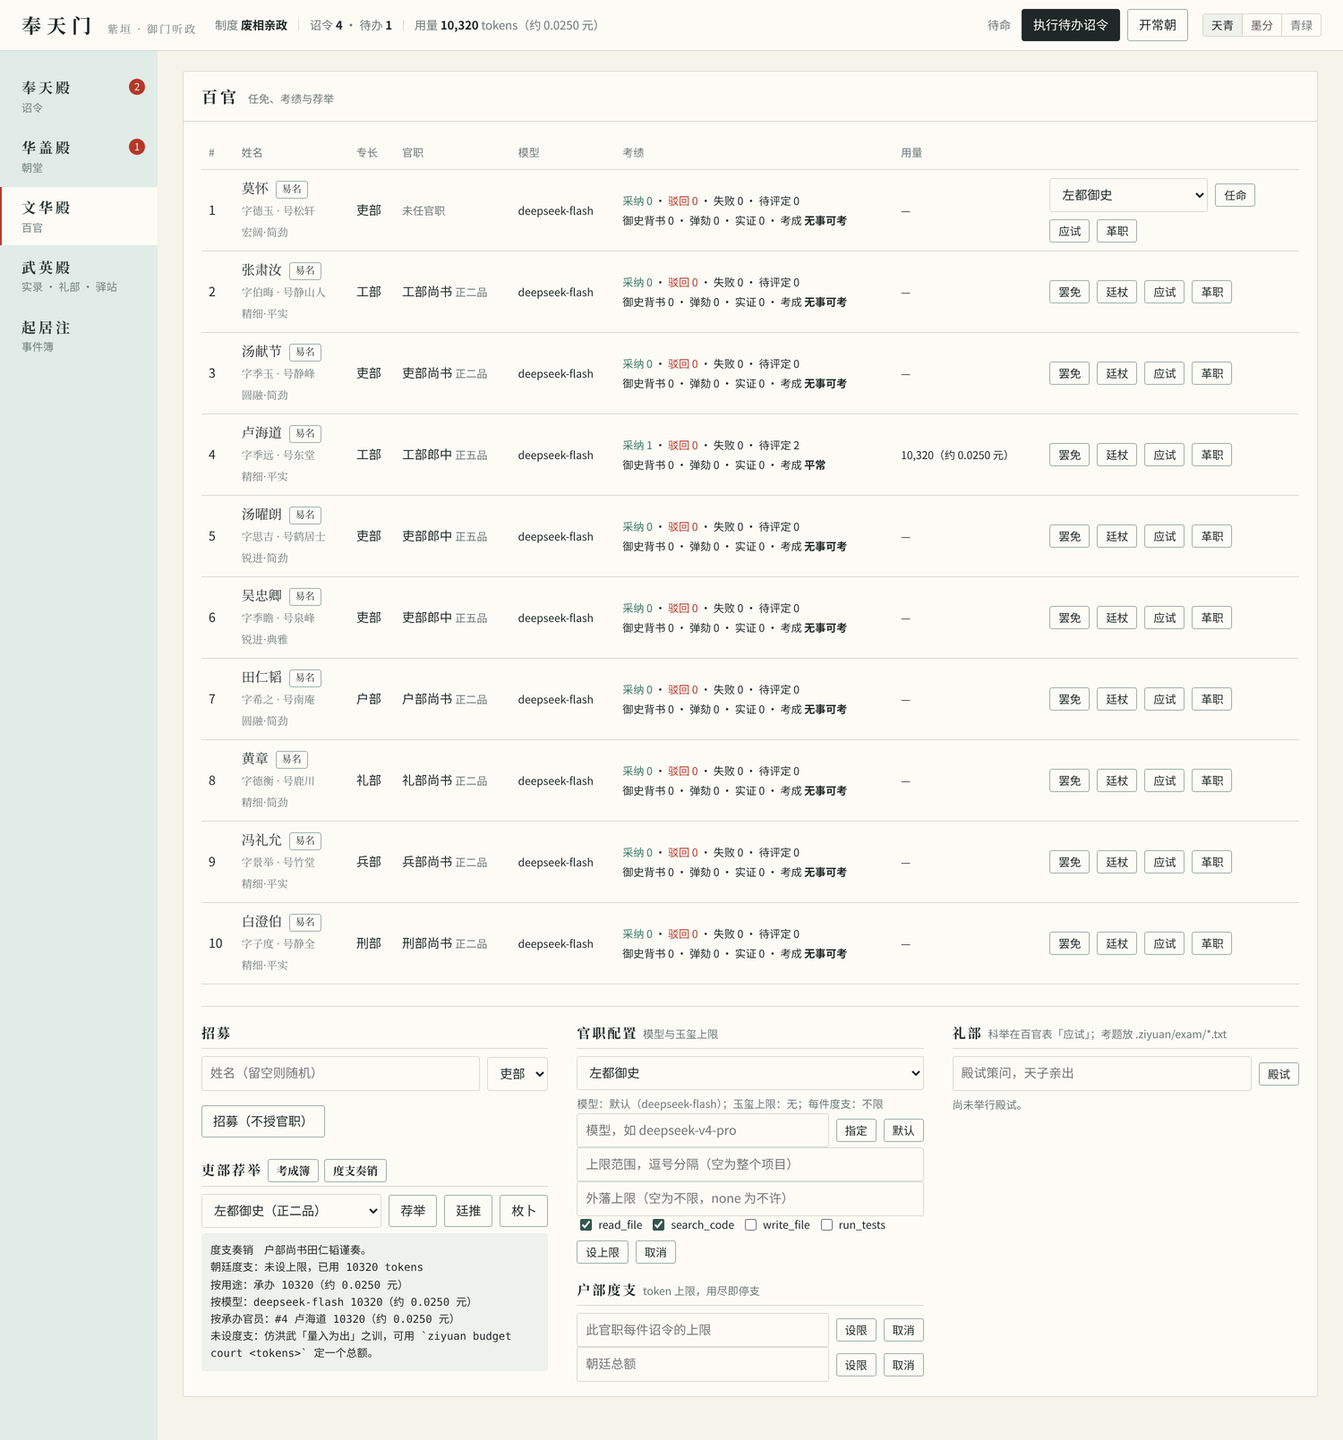
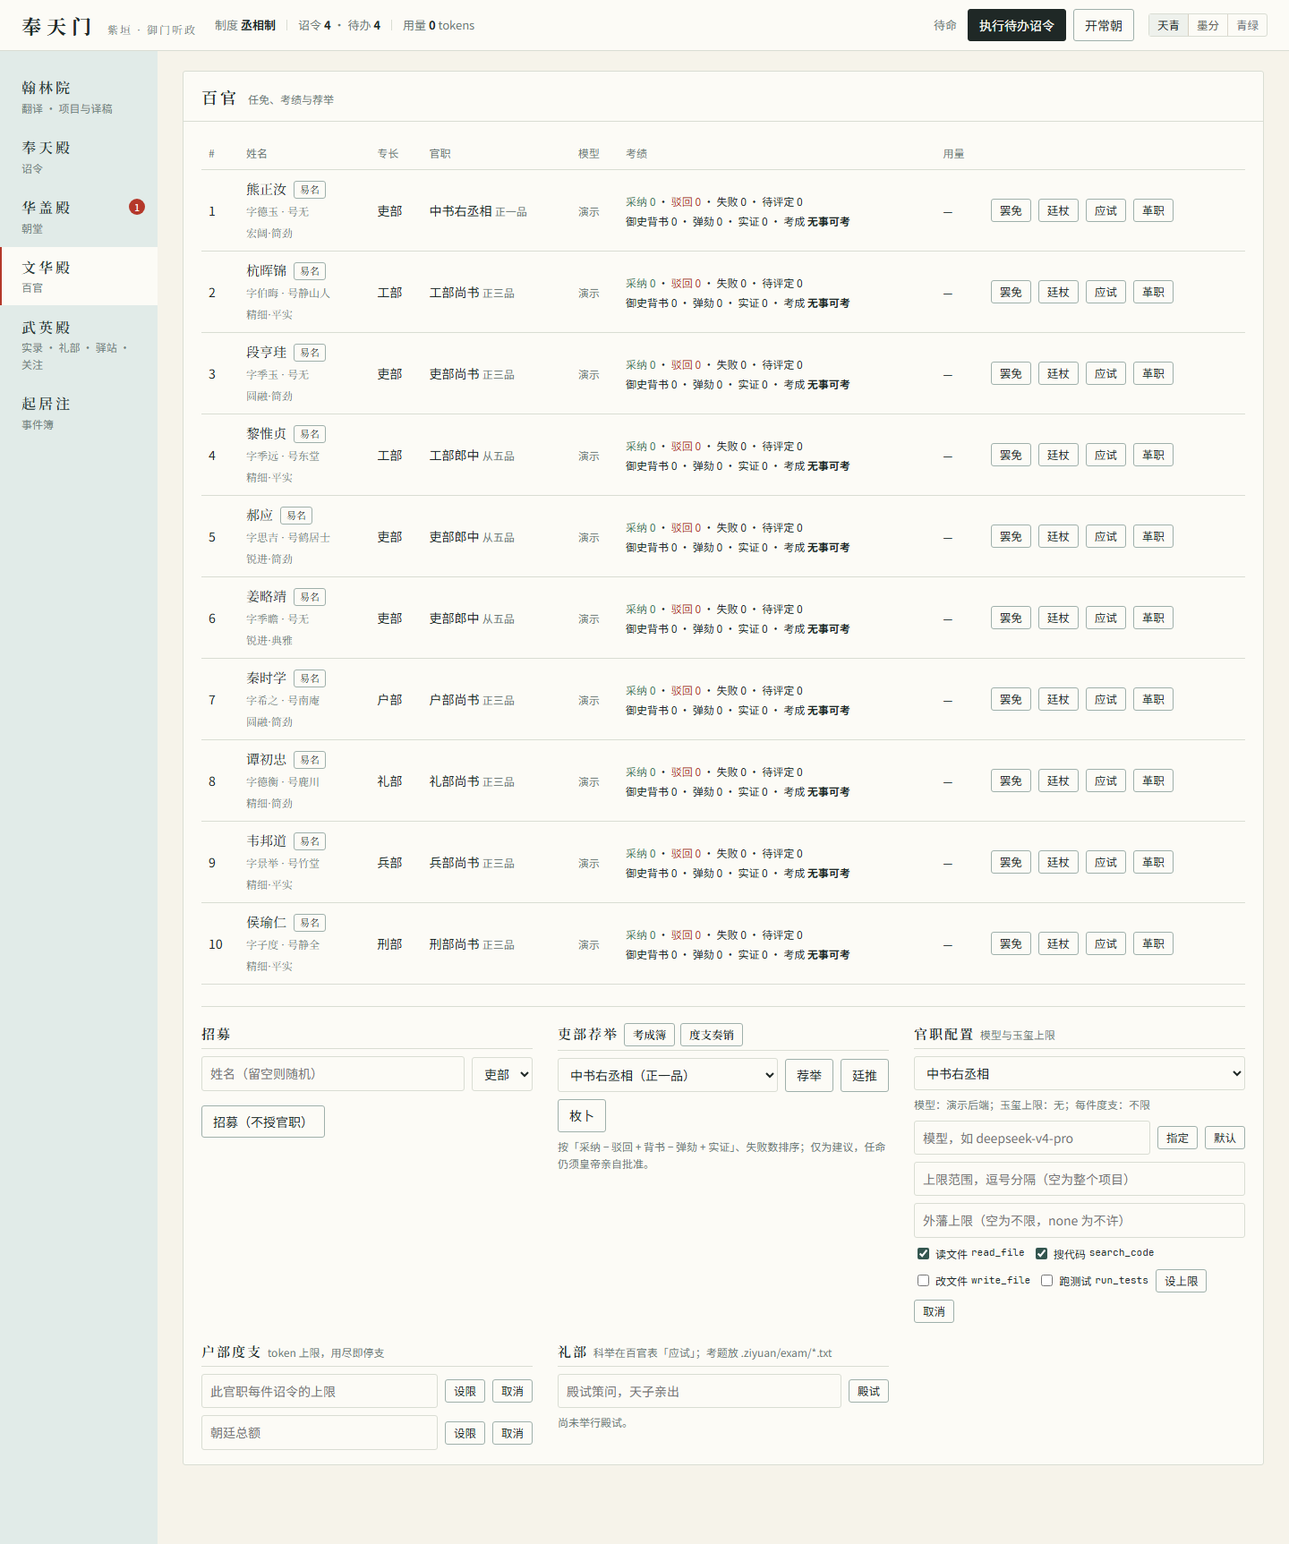
release: 1.16.1 修复 Web/TUI 画风与排版并刷新文档截图

diff --git a/crates/ziyuan-web/src/index.html b/crates/ziyuan-web/src/index.html
@@ -307,6 +307,9 @@
   #text-new-project-dialog { box-sizing: border-box; width: min(560px, calc(100vw - 32px)); max-height: 86vh; overflow: auto; background: var(--sheet); color: var(--ink); border: 1px solid var(--line-strong); border-radius: var(--radius); padding: 24px; }
   #text-new-project-dialog::backdrop { background: #1f282655; }
   #text-new-project-dialog .row { flex-wrap: wrap; }
+  #material-wizard { box-sizing: border-box; width: min(460px, calc(100vw - 32px)); max-height: 86vh; overflow: auto; background: var(--sheet); color: var(--ink); border: 1px solid var(--line-strong); border-radius: var(--radius); padding: 24px; }
+  #material-wizard::backdrop { background: #1f282655; }
+  #material-wizard h3 { margin: 0 0 12px; }
   #schedule-form { display: flex; flex-direction: column; max-height: calc(86vh - 50px); }
   #schedule-title { flex-shrink: 0; margin: 0 0 12px; }
   .schedule-content { min-height: 0; overflow: auto; padding: 4px; margin: 0 -4px; }
@@ -344,7 +347,7 @@
   /* ---- 表单与按钮：墨色细框，只有「采纳」钤朱 ---- */
   label { display: block; font-size: 12px; color: var(--muted); margin: 12px 0 4px; }
   label:first-child { margin-top: 0; }
-  input[type=text], input[type=number], input[type=password], input[type=datetime-local], input[type=file], select, textarea {
+  input:not([type]), input[type=text], input[type=number], input[type=password], input[type=datetime-local], input[type=file], select, textarea {
     width: 100%; font: inherit; color: var(--ink); background: var(--sheet);
     border: 1px solid var(--line); border-radius: var(--radius); padding: 7px 9px;
   }
@@ -434,6 +437,7 @@
   .side { border-left: 1px solid var(--line); padding-left: 20px; }
   .side + .side { margin-top: 20px; }
   #hall-wenhua .side { border-left: 0; padding-left: 0; margin: 0; }
+  .side .row + .row, #config-current + .row { margin-top: 8px; }
   .officials-layout h3 { margin: 18px 0 8px; padding-bottom: 4px; border-bottom: 1px solid var(--line); }
   .officials-layout h3:first-child { margin-top: 0; }
   .officials-layout h3 small { font-family: var(--sans); letter-spacing: 0; font-weight: normal; color: var(--muted); }
@@ -446,6 +450,7 @@
   /* ---- 武英殿与起居注 ---- */
   .records-list { margin: 12px 0 0; padding-left: 22px; max-height: 60vh; overflow: auto; font-size: 13.5px; }
   .records-list li { margin-bottom: 8px; }
+  .records-list li.hint { list-style: none; margin-left: -22px; }
   #records-q { flex: 1; }
   .history-filter { display: flex; flex-wrap: wrap; gap: 6px; align-items: center; padding: 14px 20px 0; }
   .history-filter input[type=text] { width: 9em; padding: 4px 8px; font-size: 13px; }
@@ -468,7 +473,7 @@
   #subscription-input { flex: 1 1 220px; min-width: 0; }
   #subscription-settings-form { display: flex; flex-wrap: wrap; align-items: end; gap: 12px; margin-top: 18px; }
   #subscription-settings-form label { margin: 0; }
-  #subscription-settings-form label.check { align-self: center; }
+  #subscription-settings-form label.check { display: inline-flex; align-items: center; gap: 5px; align-self: end; min-height: 36px; color: var(--ink); font-size: 13px; }
   #subscription-interval { max-width: 120px; display: block; }
   #subscription-status, #subscription-result { overflow-wrap: anywhere; }
   #subscription-panel { margin-top: 20px; }
@@ -578,6 +583,22 @@
 .assoc-tags { display: flex; flex-wrap: wrap; gap: 4px; }
 .assoc-tag { display: inline-flex; align-items: center; gap: 4px; border: 1px solid var(--line); border-radius: 999px; padding: 1px 6px; font-size: 12px; }
 .assoc-tag-x { border: 0; background: none; padding: 0; cursor: pointer; color: var(--muted); font: inherit; }
+  .materials-editor { margin-top: 10px; }
+  .materials-editor [data-role="tabs"] { margin-top: 10px; }
+  .materials-editor [data-role="tab"][aria-selected="true"] { background: var(--ink); color: var(--sheet); border-color: var(--ink); }
+  .materials-editor [data-role="add"] { margin-top: 10px; }
+  .materials-list { display: flex; flex-wrap: wrap; gap: 6px; margin-top: 10px; }
+  .materials-list [data-role="item"] { text-align: left; max-width: 100%; white-space: normal; overflow-wrap: anywhere; }
+  .materials-list [data-role="item"][aria-selected="true"] { background: var(--tint); color: var(--tint-ink); border-color: var(--line-strong); font-weight: 600; }
+  .materials-form { margin-top: 12px; }
+  .materials-form [data-role="entry-form"] { padding: 12px 14px; background: var(--well); border: 1px solid var(--line); border-radius: var(--radius); }
+  .materials-form fieldset { min-width: 0; border: 1px solid var(--line); border-radius: var(--radius); padding: 10px 12px; margin: 12px 0 0; background: var(--sheet); }
+  .materials-form legend { font-family: var(--serif); font-size: 13px; color: var(--tint-ink); padding: 0 6px; }
+  .materials-form .material-item { padding: 8px 0; border-bottom: 1px solid var(--line); }
+  .materials-form .material-item:last-of-type { border-bottom: 0; }
+  .materials-form .material-item > button, .materials-form fieldset > button[data-add] { margin-top: 8px; }
+  .materials-form label:has(> input[type="checkbox"]) { display: inline-flex; align-items: center; gap: 6px; color: var(--ink); font-size: 13px; }
+  .materials-form label:has(> input[type="checkbox"]) input[type="checkbox"] { width: auto; margin: 0; }
 #text-materials-editor.simple-mode fieldset[data-legend="出处"], #text-materials-editor.simple-mode fieldset[data-legend="适用范围"], #text-materials-editor.simple-mode fieldset[data-legend="说话人"], #text-materials-editor.simple-mode fieldset[data-legend="称呼规则"], #text-materials-editor.simple-mode fieldset[data-legend="关联术语"], #text-materials-editor.simple-mode fieldset[data-legend="语气"], #text-materials-editor.simple-mode fieldset[data-legend="生效位置"] { display: none; }
 .text-materials pre {
     white-space: pre-wrap; overflow-wrap: anywhere; margin: 6px 0 0; padding: 8px 10px; max-height: 220px;
@@ -689,14 +710,15 @@
     .header-stats { gap: 2px 14px; }
     .header-stats .stat + .stat::before { display: none; }
     .halls { flex-direction: row; overflow-x: auto; padding: 0; }
-    .halls a { border-left: 0; border-bottom: 2px solid transparent; padding: 8px 9px; flex: 1 0 auto; text-align: center; }
+    .halls a { display: inline-flex; align-items: center; justify-content: center; gap: 5px; border-left: 0; border-bottom: 2px solid transparent; padding: 8px 10px; flex: 1 0 auto; text-align: center; }
     .halls a b { font-size: 15px; letter-spacing: 1px; }
-    .halls a i { top: 2px; right: 0; }
+    .halls a i { position: static; flex: 0 0 auto; }
     .halls a.current { border-bottom-color: var(--seal); }
     .halls a span { display: none; }
     main { padding: 16px; }
     header { padding: 10px 16px; }
     .header-actions { margin-left: 0; }
+    .themes { margin-left: 0; }
   }
 
   #text-card .continuity-tools { min-width:0; margin:12px 0; padding:10px 14px; background:var(--well); border:1px solid var(--line); border-radius:var(--radius); box-sizing:border-box; }
@@ -1014,10 +1036,10 @@
                 <form method="dialog" class="write">
                   <h3>向导式新建</h3>
                   <label>类型<select id="wizard-kind"><option value="terms">术语</option><option value="persons">人物</option></select></label>
-                  <label>原文／姓名<input id="wizard-name" data-keep placeholder="例如：勇者"></label>
-                  <label>允许译法／别名<input id="wizard-values" data-keep placeholder="多个用分号分隔"></label>
-                  <label>备注<input id="wizard-note" data-keep placeholder="可留空"></label>
-                  <div class="actions"><button class="small" id="wizard-add" type="button">添加</button><button class="small" type="submit">取消</button></div>
+                  <label>原文／姓名<input type="text" id="wizard-name" data-keep placeholder="例如：勇者"></label>
+                  <label>允许译法／别名<input type="text" id="wizard-values" data-keep placeholder="多个用分号分隔"></label>
+                  <label>备注<input type="text" id="wizard-note" data-keep placeholder="可留空"></label>
+                  <div class="actions"><button class="small primary" id="wizard-add" type="button">添加</button><button class="small" type="submit">取消</button></div>
                   <p class="hint" id="wizard-status" role="status" aria-live="polite"></p>
                 </form>
               </dialog>
@@ -1965,7 +1987,7 @@ $("materials-tm-list")?.addEventListener("click", async () => {
   const host=$("materials-tm-result");host.replaceChildren();
   const check=()=>{if(project!==textProjectId)throw new Error("项目已变，请重新读取翻译记忆");};
   const task=async(fn)=>{try{check();await fn();$("materials-status").textContent="翻译记忆已更新；未修改译稿。";if(project===textProjectId)$("materials-tm-list").click();}catch(e){$("materials-status").textContent=e.message;}};
-  const input=(label,value="")=>{const e=document.createElement("input");e.placeholder=label;e.setAttribute("aria-label",label);e.value=value;return e;};
+  const input=(label,value="")=>{const e=document.createElement("input");e.type="text";e.placeholder=label;e.setAttribute("aria-label",label);e.value=value;return e;};
   const button=(label,fn)=>{const e=document.createElement("button");e.type="button";e.className="small write";e.textContent=label;e.onclick=()=>task(fn);return e;};
   const form=document.createElement("div");form.className="row write";const source=input("记忆原文"),target=input("认可译法");
   form.append(source,target,button("新增记忆",()=>api("/text/"+encodeURIComponent(project)+"/tm",{source:source.value,target:target.value})),button("从当前有效定稿建库",()=>api("/text/"+encodeURIComponent(project)+"/tm/build",{})));host.append(form);

diff --git a/crates/ziyuan-tui/src/render.rs b/crates/ziyuan-tui/src/render.rs
@@ -1067,7 +1067,7 @@ impl App {
                     area,
                     72,
                     if edict {
-                        9
+                        11
                     } else if with_department {
                         6
                     } else {
@@ -1099,18 +1099,40 @@ impl App {
                 let mut cursor_width = 0;
                 for (label, value, id) in fields {
                     lines.push(Line::default());
-                    let input = Line::from(vec![
-                        Span::styled(label, Style::new().fg(GOLD)),
-                        Span::raw(value.to_owned()),
-                    ]);
-                    if id == *field || !edict {
+                    let active = id == *field || !edict;
+                    let input = if edict {
+                        let marker = if active { "▶ " } else { "  " };
+                        let label_style = if active {
+                            Style::new().fg(GOLD).bold()
+                        } else {
+                            Style::new().fg(GOLD).dim()
+                        };
+                        Line::from(vec![
+                            Span::styled(marker, label_style),
+                            Span::styled(label, label_style),
+                            Span::raw(value.to_owned()),
+                        ])
+                    } else {
+                        Line::from(vec![
+                            Span::styled(label, Style::new().fg(GOLD)),
+                            Span::raw(value.to_owned()),
+                        ])
+                    };
+                    if active {
                         cursor_line = lines.len();
                         cursor_width = input.width();
                     }
                     lines.push(input);
                 }
+                if edict {
+                    lines.push(Line::default());
+                    lines.push(Line::from(
+                        Span::raw("↑↓ 换项 · Enter 下诏 · Esc 取消").dim(),
+                    ));
+                }
                 let cursor_x = popup.x + 2 + cursor_width as u16;
-                let cursor_y = popup.y + 1 + cursor_line as u16;
+                let cursor_y =
+                    (popup.y + 1 + cursor_line as u16).min(popup.bottom().saturating_sub(2));
                 frame.render_widget(Clear, popup);
                 frame.render_widget(Paragraph::new(lines).block(modal_block(title)), popup);
                 frame

diff --git a/crates/ziyuan-tui/src/tests.rs b/crates/ziyuan-tui/src/tests.rs
@@ -775,8 +775,20 @@ async fn edict_form_sets_scope_and_tools_like_the_cli() {
     std::fs::create_dir_all(root.join("src")).unwrap();
     press(&mut app, "n");
     let shown = screen(&app);
+    assert!(
+        shown.contains("▶ 诏令内容：") || shown.contains("> 诏令内容："),
+        "{shown}"
+    );
     assert!(shown.contains("范围（空为整个项目）"), "{shown}");
     assert!(shown.contains("工具（空为只读，none 为不授）"), "{shown}");
+    assert!(shown.contains("换项"), "{shown}");
+    press(&mut app, "↓");
+    let moved = screen(&app);
+    assert!(
+        moved.contains("▶ 范围（空为整个项目）：") || moved.contains("> 范围（空为整个项目）："),
+        "{moved}"
+    );
+    press(&mut app, "↑");
     press(&mut app, "查目录\n");
     let task = app.court().task(TaskId(1)).unwrap();
     assert_eq!(task.edict.department, Department::Works);

diff --git a/crates/ziyuan-web/src/text_tests.rs b/crates/ziyuan-web/src/text_tests.rs
@@ -2788,3 +2788,17 @@ async fn web_import_accepts_whole_book_txt_over_two_mib_and_rejects_above_eight_
     assert_eq!(code, 400, "{err}");
     fs::remove_dir_all(root).unwrap();
 }
+
+#[test]
+fn web_dialogs_and_materials_editor_use_theme_styles() {
+    let html = crate::INDEX_HTML;
+    assert!(html.contains("#material-wizard {"));
+    assert!(html.contains("#material-wizard::backdrop {"));
+    assert!(html.contains("input:not([type]), input[type=text]"));
+    assert!(html.contains("type=\"text\" id=\"wizard-name\""));
+    assert!(html.contains("type=\"text\" id=\"wizard-values\""));
+    assert!(html.contains("type=\"text\" id=\"wizard-note\""));
+    assert!(html.contains(".materials-editor [data-role=\"tab\"][aria-selected=\"true\"]"));
+    assert!(html.contains(".records-list li.hint { list-style: none;"));
+    assert!(html.contains(".side .row + .row, #config-current + .row { margin-top: 8px; }"));
+}

diff --git a/crates/ziyuan-storage/src/lib.rs b/crates/ziyuan-storage/src/lib.rs
@@ -749,7 +749,7 @@ impl EventLog {
 }
 
 /// 各发布版本，按序号（[`LogReport::readable_since`] 所用，从 1 起）排列。
-pub const RELEASES: [&str; 49] = [
+pub const RELEASES: [&str; 50] = [
     "0.1.0",
     "0.2.0",
     "0.3.0",
@@ -809,6 +809,8 @@ pub const RELEASES: [&str; 49] = [
     "1.15.5",
     // 1.16.0 沿用事件类型与读取门槛。
     "1.16.0",
+    // 1.16.1 沿用事件类型与读取门槛。
+    "1.16.1",
 ];
 
 /// 序号对应的发布版本号；超出所知的报本版。

diff --git a/docs/acceptance/1.16.1.md b/docs/acceptance/1.16.1.md
@@ -1,0 +1,32 @@
+# 1.16.1 验收记录
+
+更新：2026-11-20。本页记录发版提交写入前在本机已执行的检查。标签 `v1.16.1`、四平台发行包及 crates.io 自动发布要等标签推送后由 CI 完成，这里不提前写成已完成。
+
+## 本版范围
+
+- Web 界面画风与排版修复：
+  - 为「向导式新建」弹窗（`#material-wizard`）与背景遮罩补齐三主题纸墨样式，给弹窗内与翻译记忆动态创建的文本输入框补齐 `type="text"`，并将基础输入框样式扩展至 `input:not([type])`。
+  - 统一「翰林院 → 资料」中本地资料编辑器（`.materials-editor`）的页签激活态、条目选中态、按钮间距、分组框与可选项复选框样式。
+  - 补齐「文华殿」底部「官职配置」与「户部度支」连续 `.row` 的垂直间距；移除「武英殿」空实录列表项前的 `1.` 编号；对齐「作品关注」定时与自动入队勾选项与输入框底线。
+  - 修复 390px 窄屏下殿阁导航角标遮挡「华盖殿」文字，以及配色切换组折行后的左侧多余缩进。
+- TUI 下诏弹窗交互改进：在 `InputKind::Edict` 中标出当前焦点栏位（`▶`／`>`）并区分未激活栏位样式，增加 `↑↓ 换项 · Enter 下诏 · Esc 取消` 提示，同时对小终端的光标纵坐标做边界限制。
+- 文档与截图同步：刷新 `web-officials.png`、`web-dag.png`、`web-dag-schedule.png`、`web-follow.png`、`web-text-memory.png`、`web-text-memory-narrow.png` 六张活跃指南截图，并修正[使用指南](../guide.md)中的三处图注。
+- 工作区 crate、依赖、`Cargo.lock` 与 `ziyuan-storage::RELEASES` 登记 `1.16.1`。不新增朝廷事件类型，不提高旧事件簿读取门槛。
+
+## 检查状态
+
+| 检查 | 结果 |
+| --- | --- |
+| `cargo fmt --all -- --check` | 通过（Windows） |
+| `cargo clippy --workspace --all-targets --locked -- -D warnings` | 通过（Windows） |
+| `cargo check --workspace --all-targets --all-features --locked` | 通过（Windows） |
+| `cargo test --workspace --locked` | 通过（Windows，含新增 Web 样式与 TUI 焦点回归测试） |
+| `cargo test -p ziyuan-sandbox-windows --locked` | 通过（Windows） |
+| 前端 Node 单元测试（`crates/ziyuan-web/src/*.test.mjs`） | 128 项通过 |
+| 文档相对链接与锚点（`python scripts/check-doc-links.py`） | 通过（49 个文件、335 条相对链接，含本页） |
+| 真实浏览器无头 Chrome 布局与流程烟测（`browser-layout-smoke` 116 项、`browser-continuity-smoke`、`browser-viewer-smoke`） | 通过（三主题、320/390/768/1440px、200% 缩放无横向越界；6 张刷新截图与 6 张修复验证图均逐张人工核验） |
+
+## 边界
+
+- 本版不改动任何冻结协议、事件簿格式、CLI 子命令或接口契约。
+- `bash scripts/smoke.sh` 及四平台打包／crates.io 发布留待标签 `v1.16.1` 推送后由 GitHub Actions 常规 CI 与发布工作流执行。

diff --git a/CHANGELOG.md b/CHANGELOG.md
@@ -2,6 +2,13 @@
 
 ## Unreleased
 
+## 1.16.1 — 2026-11-20
+
+- 修复 Web 界面弹窗与局部控件画风及排版问题：为「向导式新建」弹窗（`#material-wizard`）与无 `type` 文本输入框补齐天青／墨分／青绿三主题纸墨样式，统一本地资料编辑器页签、条目选中态与分组框样式；补齐文华殿底部「官职配置」「户部度支」连续表单行距，移除武英殿空实录占位项前的 `1.` 编号并使「作品关注」勾选项与输入框底线对齐；修复 390px 窄屏下殿阁角标遮挡文字及配色切换组左缩进问题。
+- 改进终端（TUI）下诏弹窗可读性：为当前焦点栏位增加 `▶`（Windows 控制台回退为 `>`）高亮指示与底部 `↑↓ 换项 · Enter 下诏 · Esc 取消` 提示，并对小终端光标纵坐标作边界保护。
+- 刷新[使用指南](docs/guide.md)、[本地译文记忆](docs/memory.md)与[作品更新提醒](docs/subscriptions.md)中过时或排版未对齐的 6 张 Web 截图（`web-officials.png`、`web-dag.png`、`web-dag-schedule.png`、`web-follow.png`、`web-text-memory.png`、`web-text-memory-narrow.png`）并修正图注。
+- 登记版本 `1.16.1`（不新增事件类型，不提高旧事件簿读取门槛）；本地验证见 [1.16.1 验收记录](docs/acceptance/1.16.1.md)。
+
 ## 1.16.0 — 2026-11-19
 
 - 工部读文件可按行窗口读取（`offset` 从第 1 行起，`lines` 为行数），说明总行数和后面是否还有。窗口里返回的正文同样不超过 64 KiB。不带这两个参数时仍从开头读，超过 64 KiB 截断。越出玉玺或禁区仍拒绝。

diff --git a/docs/README.md b/docs/README.md
@@ -2,7 +2,7 @@
 
 初次使用先看[使用指南](guide.md)；译书与本地文本工作台操作集中查阅[翰林院译书指南](novel-translation.md)，再按需配合[译文记忆与参考选用](memory.md)与[作品更新提醒](subscriptions.md)。
 
-发布进度与验证记录见[验收归档](#验收记录历史归档)及 [1.16.0 验收记录](acceptance/1.16.0.md)，已公开发布的二进制包以 [GitHub Releases](https://github.com/YuuUehara/Ziyuan/releases) 为准，各版变化见 [CHANGELOG](../CHANGELOG.md)。
+发布进度与验证记录见[验收归档](#验收记录历史归档)及 [1.16.1 验收记录](acceptance/1.16.1.md)，已公开发布的二进制包以 [GitHub Releases](https://github.com/YuuUehara/Ziyuan/releases) 为准，各版变化见 [CHANGELOG](../CHANGELOG.md)。
 
 ## 使用指南
 
@@ -28,6 +28,7 @@
 
 每份归档只记录当时实际执行过的检查范围与未测事项；历史版本结果不代替当前源码检查。
 
+- [1.16.1](acceptance/1.16.1.md)
 - [1.16.0](acceptance/1.16.0.md)
 - [1.15.5](acceptance/1.15.5.md)
 - [1.15.4](acceptance/1.15.4.md)

diff --git a/docs/releasing.md b/docs/releasing.md
@@ -1,6 +1,6 @@
 # 发布指南
 
-本页说明紫垣的标签发布流程、四平台下载包验收及 crates.io 可信发布约定，不含令牌、密钥或其他凭据。最新检查进度见 [1.16.0 验收记录](acceptance/1.16.0.md)，已发布版本记录见各版验收归档。
+本页说明紫垣的标签发布流程、四平台下载包验收及 crates.io 可信发布约定，不含令牌、密钥或其他凭据。最新检查进度见 [1.16.1 验收记录](acceptance/1.16.1.md)，已发布版本记录见各版验收归档。
 
 ## 触发条件
 
